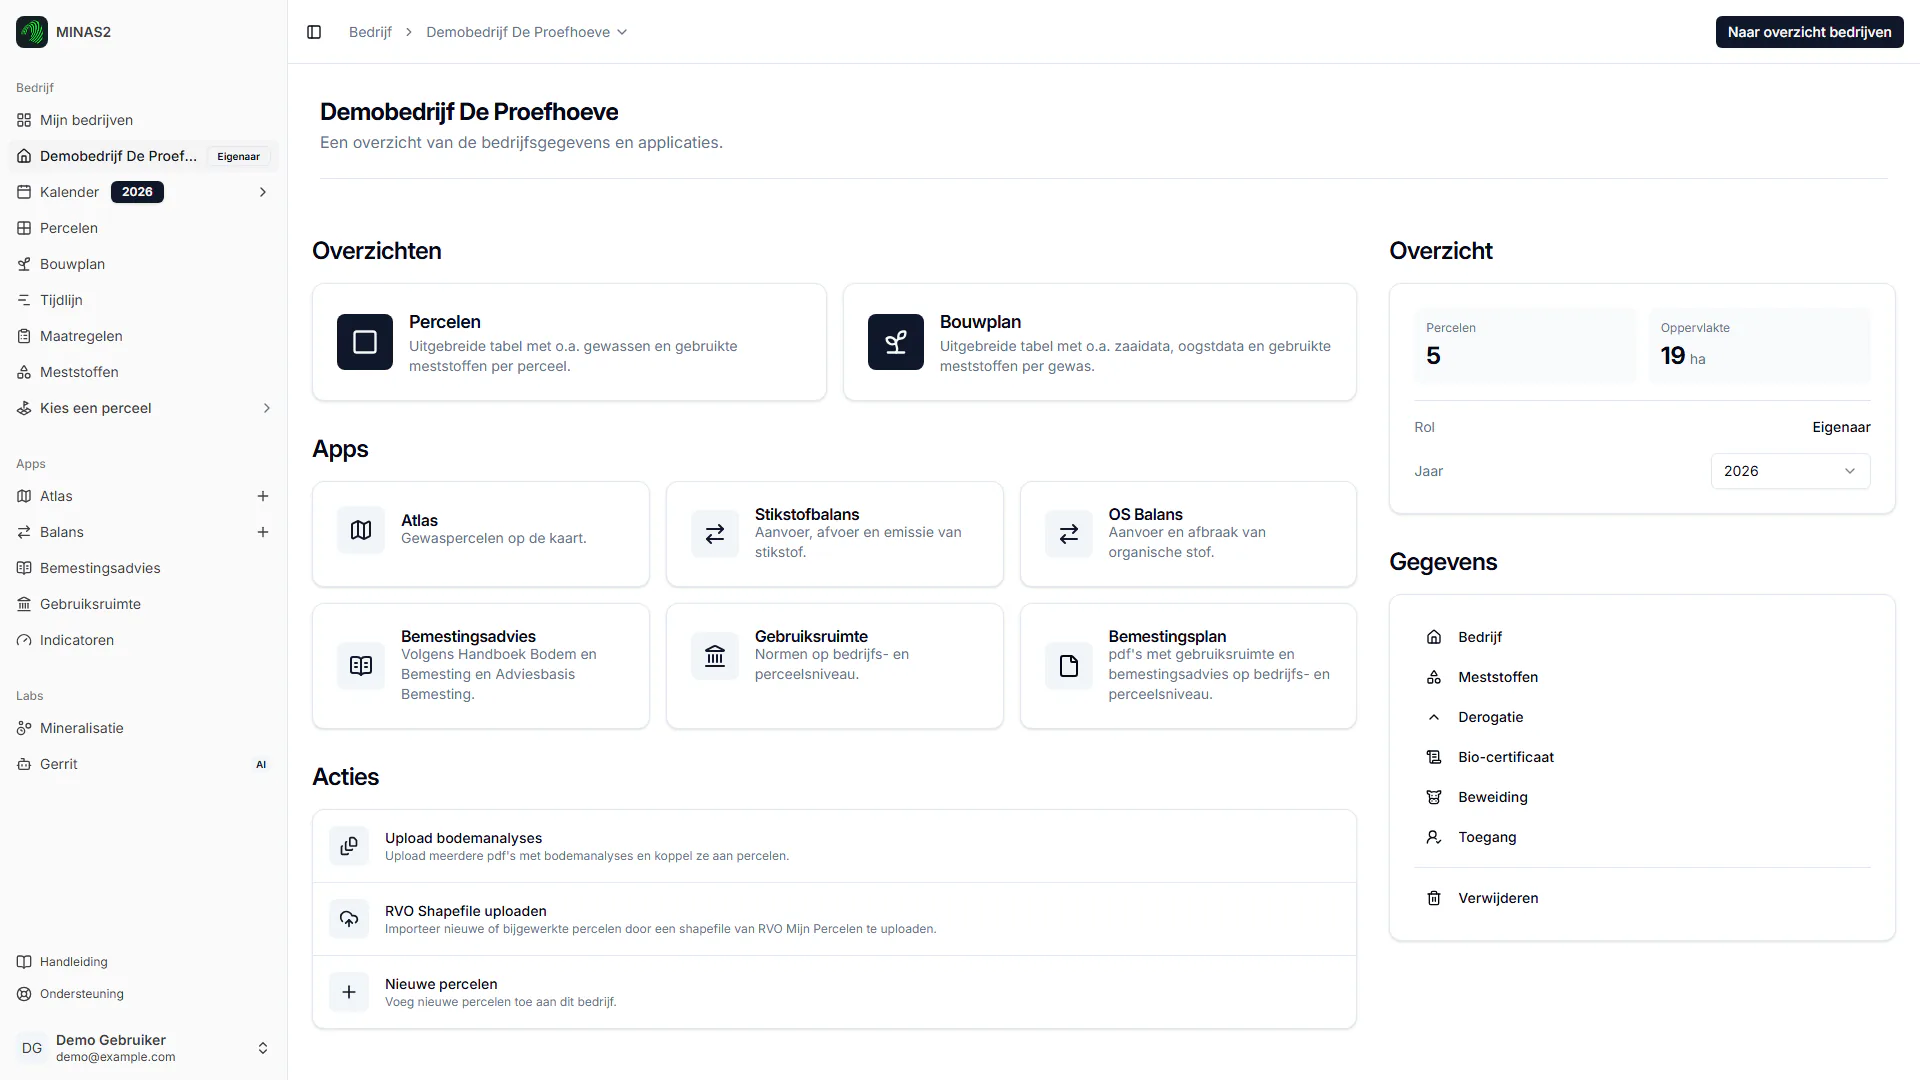
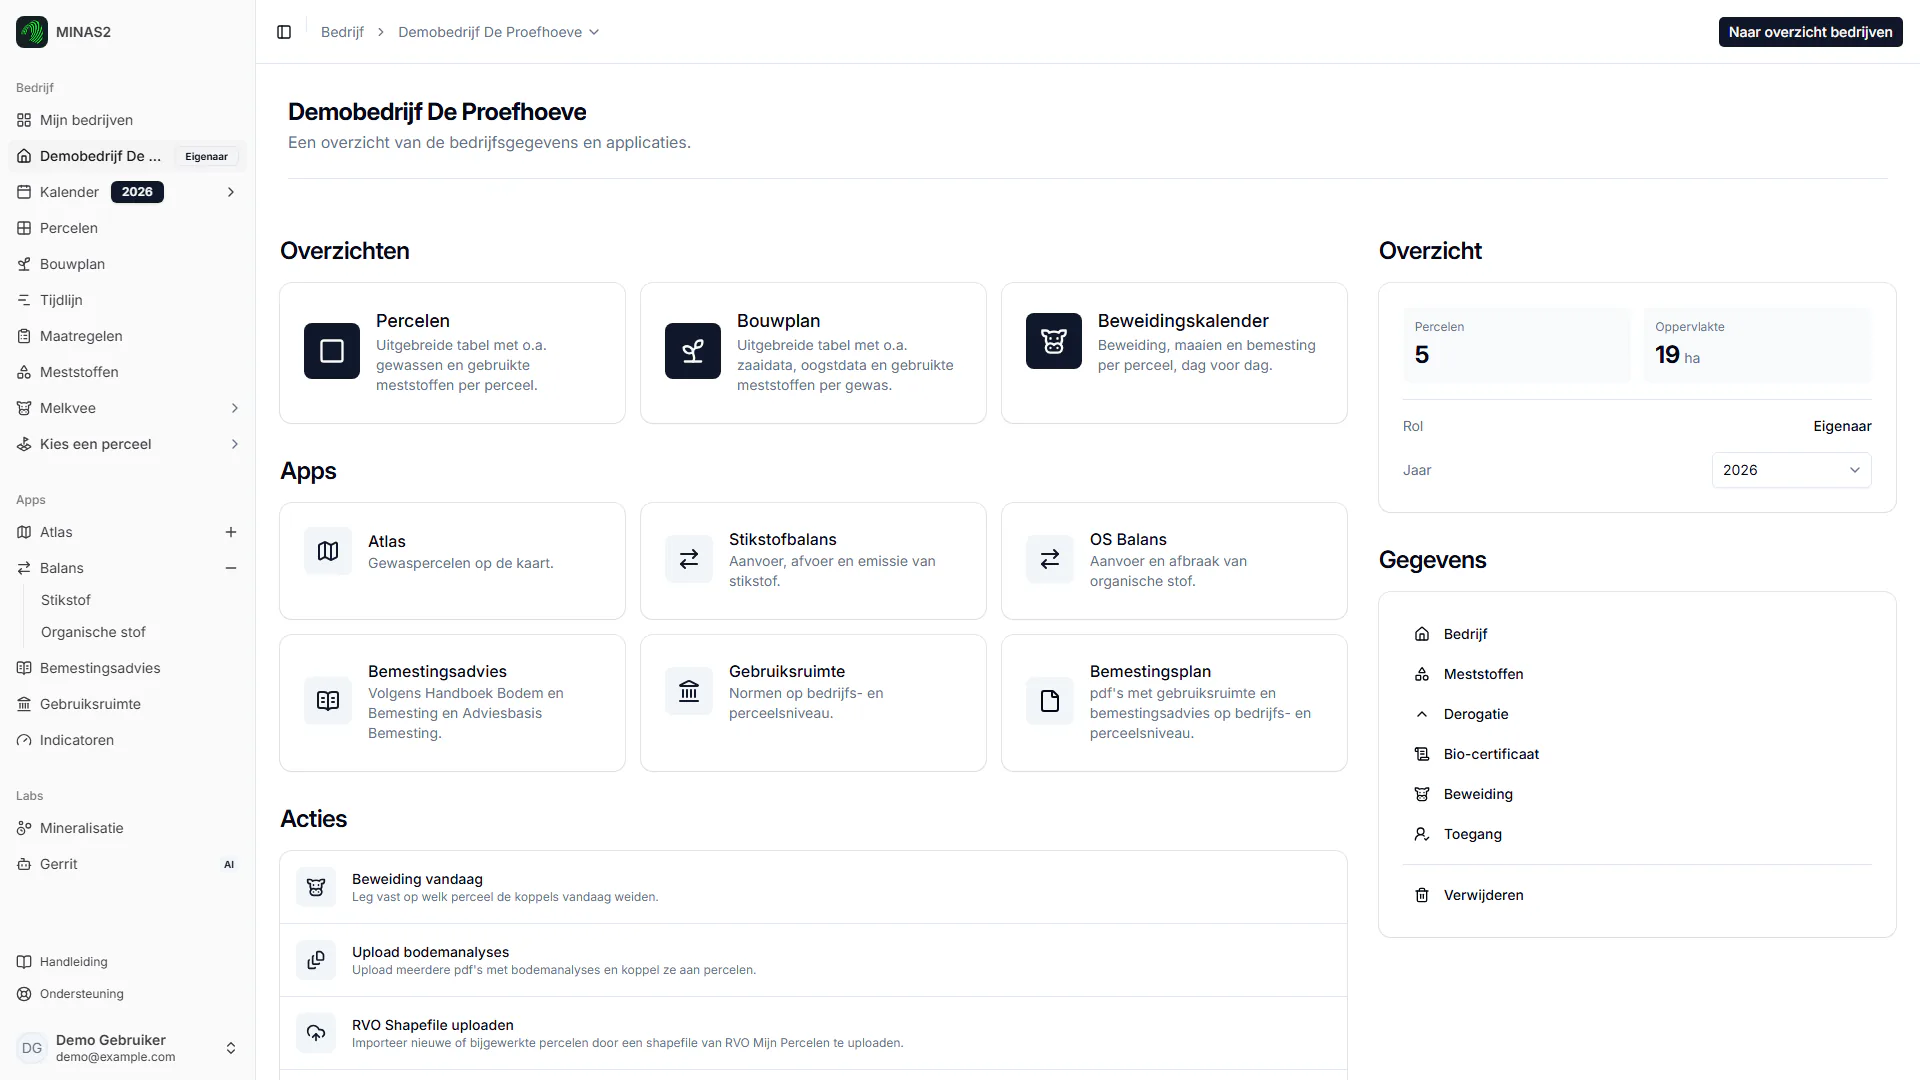
docs(fdm-app): capture the Melkvee screenshots of the manual
Adds the screenshots of the livestock and grazing chapters and updates the
farm page screenshot, which now shows the grazing calendar card.

The captures follow the current labels: the planner link is "Beweidingsplanner"
and Weidegang opens from the Melkvee overview. The grazing map opens through the
"Beweiding vandaag" action, so it shows the fixed capture date instead of the
real one, and the zone capture moves the pointer off the drawing toolbar so no
tooltip covers it.

diff --git a/fdm-app/app/content/manual/screenshots/capture.ts b/fdm-app/app/content/manual/screenshots/capture.ts
@@ -296,6 +296,8 @@ export const captures = {
       { click: { role: "button", name: "Beweiding toevoegen" } },
       { click: { text: "Zone op de kaart", exact: true } },
       { waitFor: { text: "Eerder gebruikte zones" } },
+      // Move the pointer off the drawing toolbar, whose disabled buttons explain themselves in a tooltip
+      { hover: { text: "Leg de beweidingsperiode en uren vast voor dit perceel." } },
     ],
     element: { role: "dialog", name: "Beweiding" },
     map: true,
@@ -324,18 +326,22 @@ export const captures = {
     steps: [
       { click: { selector: 'a[href$="/livestock"]' } },
       { click: { selector: 'a[href$="/livestock/grazing"]' } },
-      { click: { role: "link", name: "Graslandgebruiksysteem planner" } },
+      { click: { role: "link", name: "Beweidingsplanner" } },
       { click: { text: "Stripgrazen", exact: true } },
       { click: { role: "button", name: "Stroken op de kaart" } },
       { waitFor: { text: "Strook op de kaart", exact: true } },
     ],
   },
   "beweiding-vandaag": {
-    route: "/farm/{farm}/{year}/atlas/grazing",
-    ready: { selector: ".maplibregl-canvas" },
-    // The demo farm grazes the home plot in mid-June
+    // The map reads "today" from the browser when it first loads, so it opens through the
+    // dashboard action after the clock is fixed. The demo farm grazes the home plot in mid-June.
+    route: "/farm/{farm}?calendar={year}",
+    ready: { role: "heading", name: "Demobedrijf De Proefhoeve" },
     clock: "{year}-06-15T12:00:00+02:00",
-    steps: [{ waitFor: { text: "Nog niet gebruikt" } }],
+    steps: [
+      { click: { role: "link", name: "Beweiding vandaag" } },
+      { waitFor: { text: "maandag 15 juni" } },
+    ],
     map: true,
   },
   "beweiding-inzichten": {
@@ -343,7 +349,9 @@ export const captures = {
     ready: { role: "heading", name: "Demobedrijf De Proefhoeve" },
     clock: "{year}-06-15T12:00:00+02:00",
     steps: [
-      { click: { role: "link", name: "Weidegang" } },
+      // The farm page links to the grazing calendar; Weidegang opens from the Melkvee overview
+      { click: { selector: 'a[href$="/livestock"]' } },
+      { click: { role: "link", name: "Weidegang", exact: true } },
       { waitFor: { text: "Weidemelk · 120 dagen × 6 uur" } },
     ],
   },
